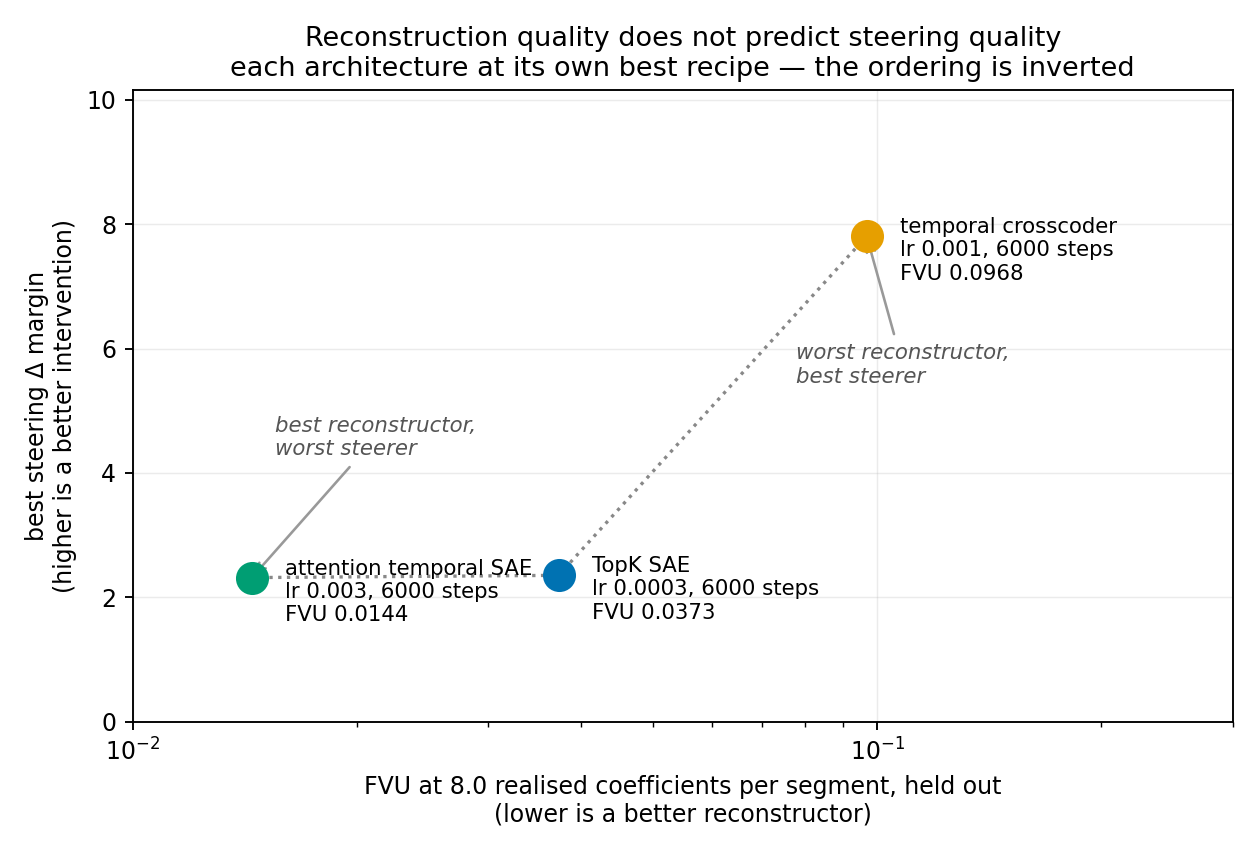
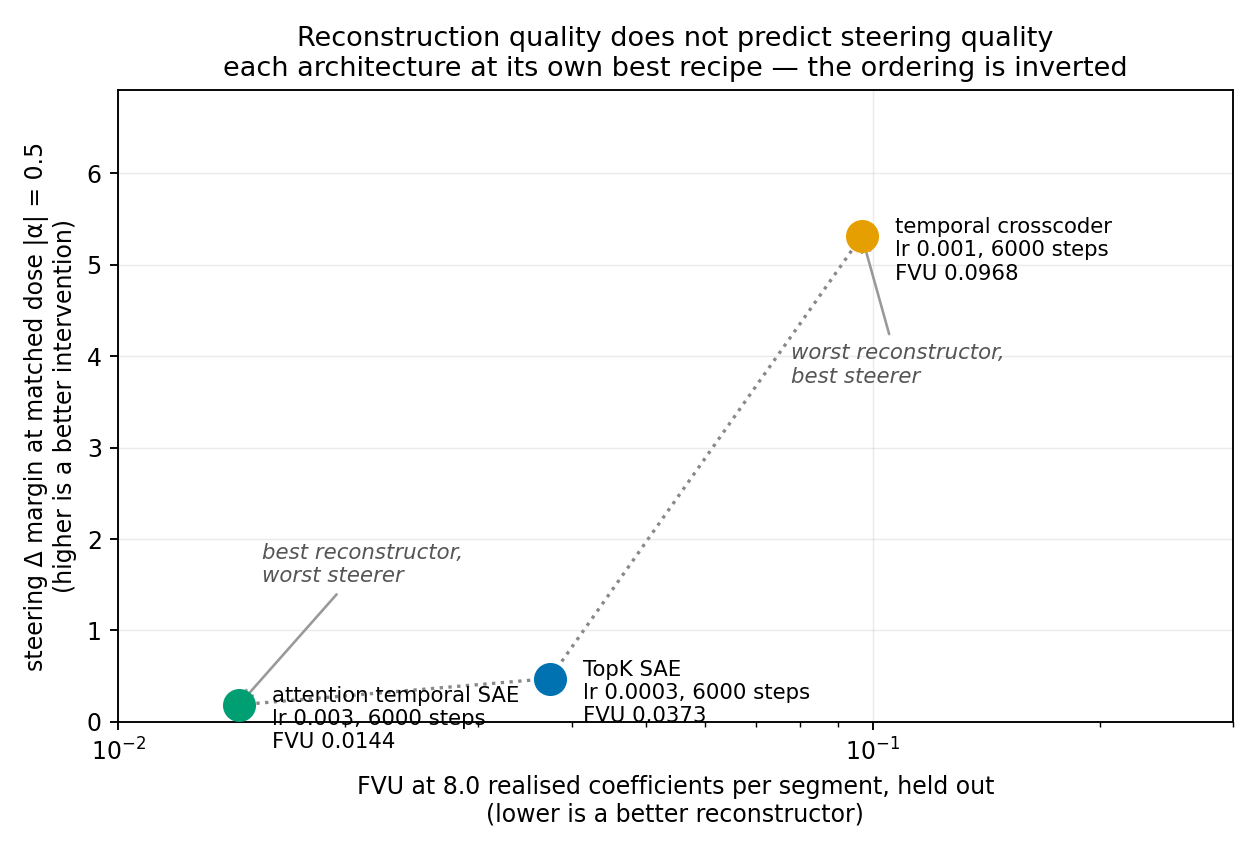
txcwins: FVU figure at matched dose, max over signs
Best-dose put each arm at its own saturation point. At matched dose the rank
inversion is strict rather than partial -- at best dose the SAE and tSAE are
within 0.03 so the FVU ordering does not cleanly invert.

The signed +0.5 dose scored both per-token arms NEGATIVE, which biased the
figure in the crosscoder's favour: sign is a free parameter, so the matched
quantity is the magnitude and each arm takes its better sign. Same convention
as the matched-dose table and the c figure.

Claude-Session: https://claude.ai/code/session_019TBT3ZW4RMH7Sir9Ng6aap

diff --git a/scripts/plot_fvu_vs_steering.py b/scripts/plot_fvu_vs_steering.py
@@ -2,7 +2,9 @@
 
 Each architecture is trained at ITS OWN best recipe, taken from a full lr x steps sweep, and
 matched at 8.0 realised coefficients per segment on held-out data. The best reconstructor of the
-three steers worst and the worst reconstructor steers best, by 3.4x.
+three steers worst and the worst reconstructor steers best. At the matched dose the rank
+inversion is strict and complete: FVU orders tSAE < SAE < crosscoder, steering orders them
+exactly in reverse, and the spread is 28x rather than the 3.4x visible at best dose.
 
 This matters beyond temporal codes: benchmarks rank dictionaries by FVU, and on this task that
 ranking is exactly backwards for the use a crosscoder is being proposed for.
@@ -21,12 +23,32 @@ RECIPE = ROOT / "results" / "txc_wins" / "recipe_recency.json"
 STEER = ROOT / "results" / "txc_wins" / "recency_fair.json"
 OUT = ROOT / "plots" / "2026-07-26_txcwins" / "fvu_vs_steering.png"
 
+# Matched dose: the smallest magnitude at which the crosscoder is significant on this task.
+DOSE = 0.5
+
 # (recipe key, steering arm, label, colour)
 ARMS = [
     ("tsae_topk", "tsae_broadcast", "attention temporal SAE", "#009E73"),
     ("sae", "sae_broadcast", "TopK SAE", "#0072B2"),
     ("txc", "txc_slab", "temporal crosscoder", "#E69F00"),
 ]
+
+
+def at_dose(arm, mag):
+    """Best of the two SIGNS at this dose magnitude.
+
+    The magnitude is matched across arms; the sign is not, because which class you want to
+    steer toward is something the experimenter knows and a steering vector's sign is a free
+    parameter. Taking the signed +mag instead would score an arm whose correct direction is
+    negative as a failure -- the exact bug that made a one-sided grid hide the SAE's ability
+    on the order task, and here it would bias in the crosscoder's favour by reporting the
+    two per-token arms as negative.
+    """
+    best = None
+    for a, v, e in zip(arm["alphas"], arm["delta_margin"], arm.get("sem", [0] * 99)):
+        if abs(abs(a) - mag) < 1e-9 and (best is None or v > best[0]):
+            best = (v, e)
+    return best or (max(arm["delta_margin"]), 0.0)
 
 
 def main() -> int:
@@ -39,24 +61,28 @@ def main() -> int:
     fig, ax = plt.subplots(figsize=(7.4, 5.0))
     for rk, sk, label, col in ARMS:
         fvu = best[rk]["fvu"]
-        dm = arms[sk]["delta_margin"]
-        j = dm.index(max(dm))
-        sem = arms[sk].get("sem", [0] * len(dm))[j]
-        ax.errorbar(fvu, dm[j], yerr=sem, fmt="o", ms=13, color=col, capsize=4,
+        # MATCHED DOSE MAGNITUDE, not each arm's own best. Best-dose reporting puts every
+        # arm at its own saturation point, outside the linear regime the comparison is
+        # about, and flatters flat arms by letting them pick a maximum over the whole grid.
+        # At the matched dose the inversion is STRICTER: FVU ranks tSAE < SAE < crosscoder
+        # and steering ranks them exactly in reverse, which is NOT true at best dose where
+        # the SAE and tSAE are within 0.03 of each other.
+        val, sem = at_dose(arms[sk], DOSE)
+        ax.errorbar(fvu, val, yerr=sem, fmt="o", ms=13, color=col, capsize=4,
                     elinewidth=1.4, zorder=3)
         lr, steps = best[rk]["lr"], int(best[rk]["steps"])
         ax.annotate(f"{label}\nlr {lr:g}, {steps} steps\nFVU {fvu:.4f}",
-                    (fvu, dm[j]), textcoords="offset points", xytext=(14, -6),
+                    (fvu, val), textcoords="offset points", xytext=(14, -6),
                     fontsize=9, va="center")
 
     xs = [best[rk]["fvu"] for rk, _, _, _ in ARMS]
-    ys = [max(arms[sk]["delta_margin"]) for _, sk, _, _ in ARMS]
+    ys = [at_dose(arms[sk], DOSE)[0] for _, sk, _, _ in ARMS]
     ax.plot(xs, ys, ls=":", lw=1.4, color="#888888", zorder=1)
 
     ax.set_xscale("log")
     ax.set_xlabel("FVU at 8.0 realised coefficients per segment, held out\n"
                   "(lower is a better reconstructor)")
-    ax.set_ylabel("best steering Δ margin\n(higher is a better intervention)")
+    ax.set_ylabel(f"steering Δ margin at matched dose |α| = {DOSE}\n(higher is a better intervention)")
     ax.set_title("Reconstruction quality does not predict steering quality\n"
                  "each architecture at its own best recipe — the ordering is inverted",
                  fontsize=11.5)
